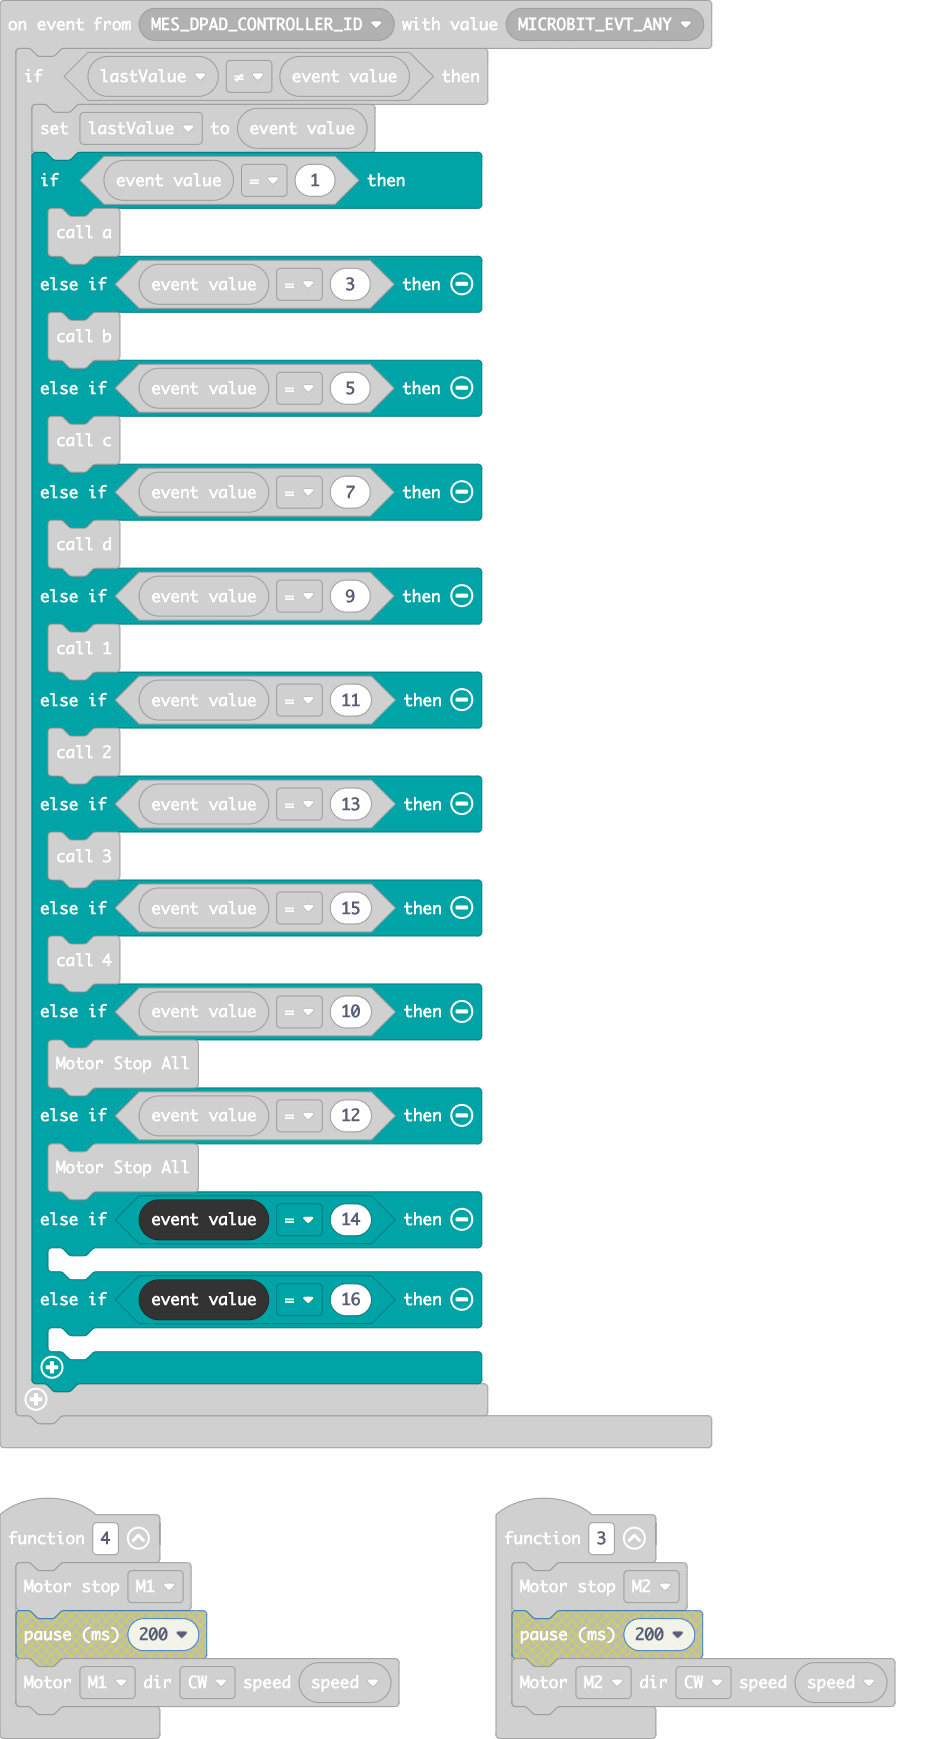
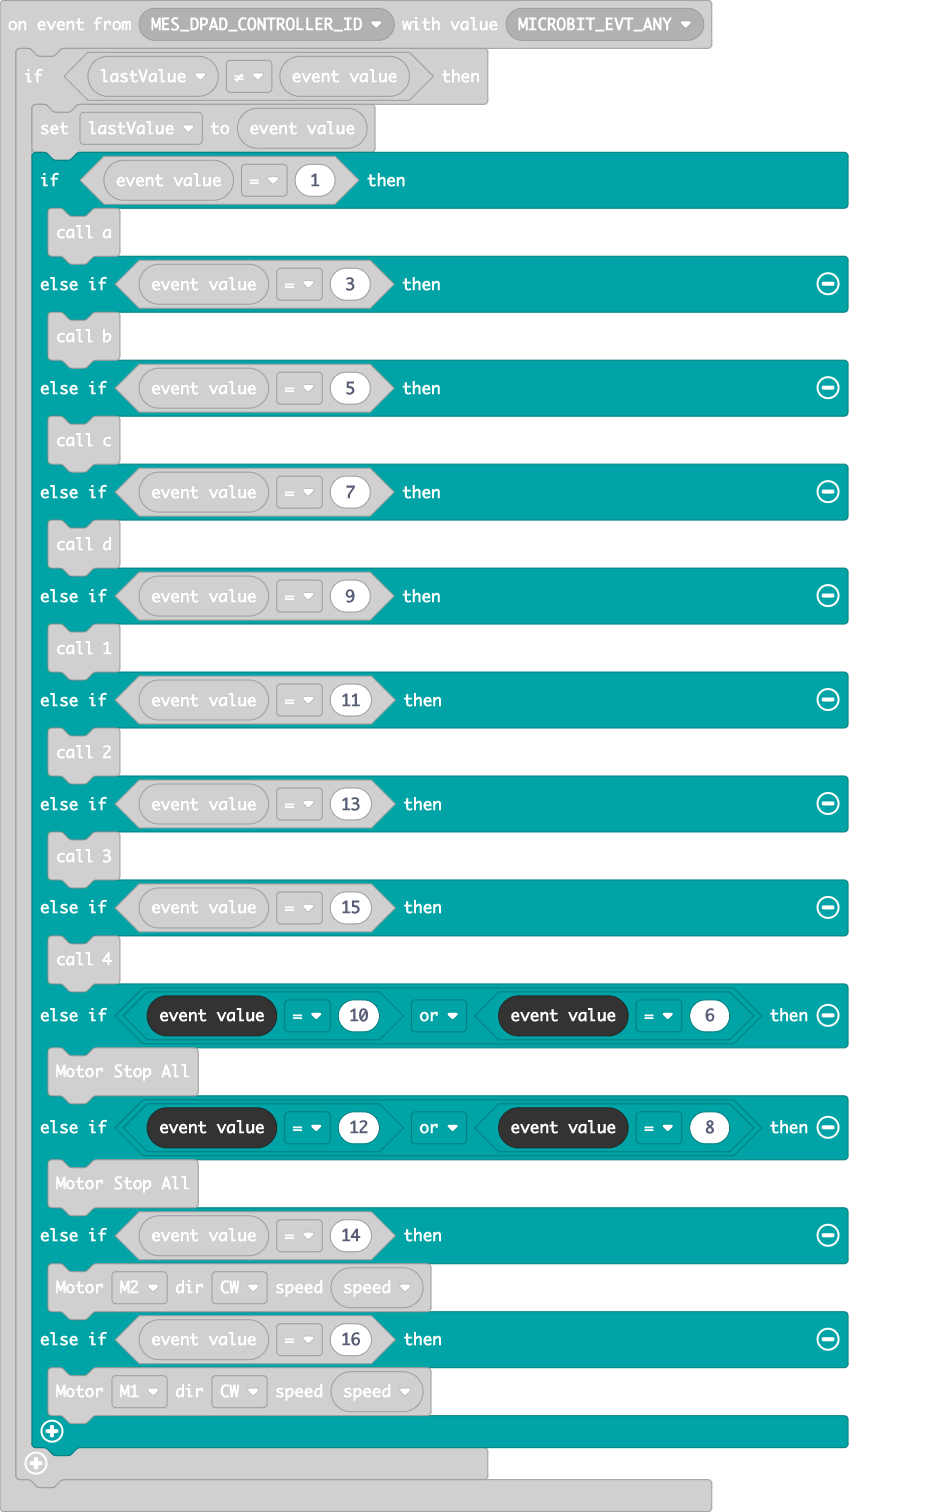
Update main.blocks, main.ts

diff --git a/main.ts b/main.ts
@@ -34,9 +34,9 @@ control.onEvent(EventBusSource.MES_DPAD_CONTROLLER_ID, EventBusValue.MICROBIT_EV
             _3()
         } else if (control.eventValue() == 15) {
             _4()
-        } else if (control.eventValue() == 10) {
+        } else if (control.eventValue() == 10 || control.eventValue() == 6) {
             motor.motorStopAll()
-        } else if (control.eventValue() == 12) {
+        } else if (control.eventValue() == 12 || control.eventValue() == 8) {
             motor.motorStopAll()
         } else if (control.eventValue() == 14) {
             motor.MotorRun(motor.Motors.M2, motor.Dir.CW, speed)
